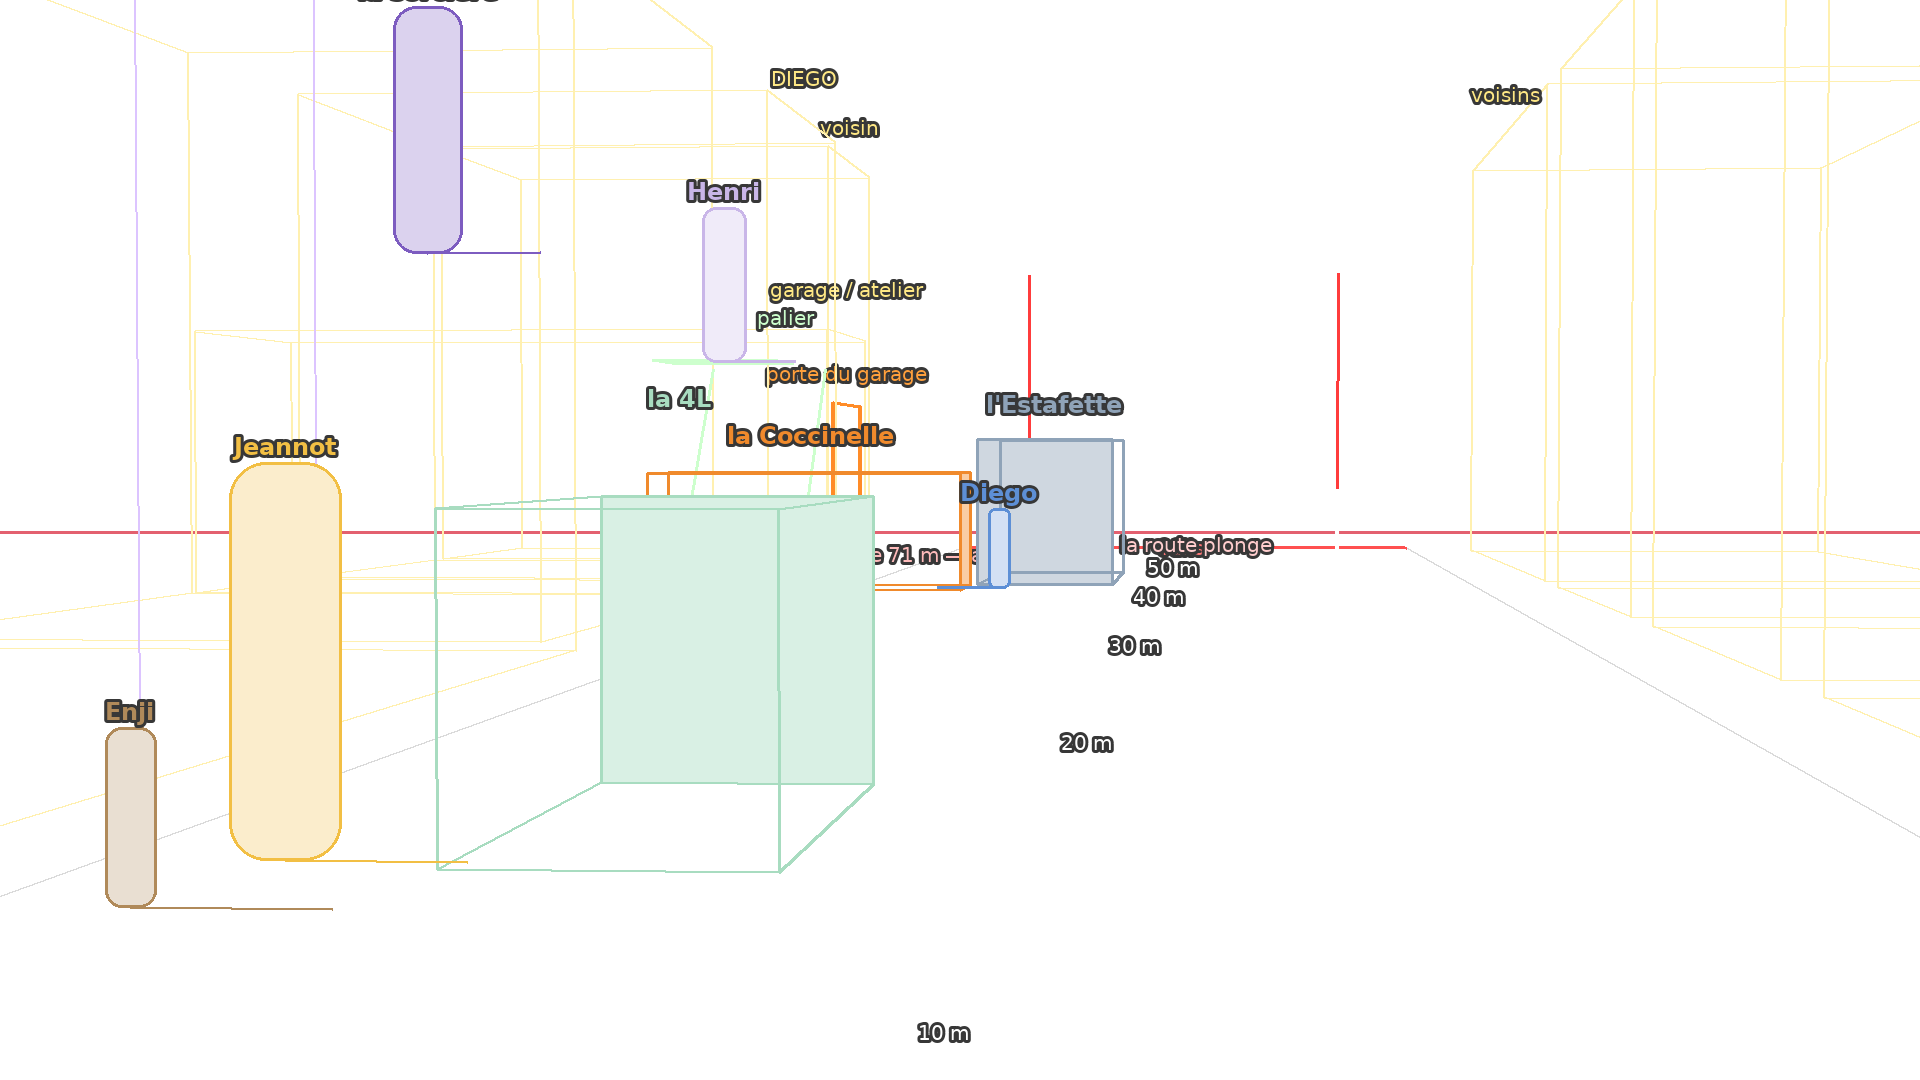
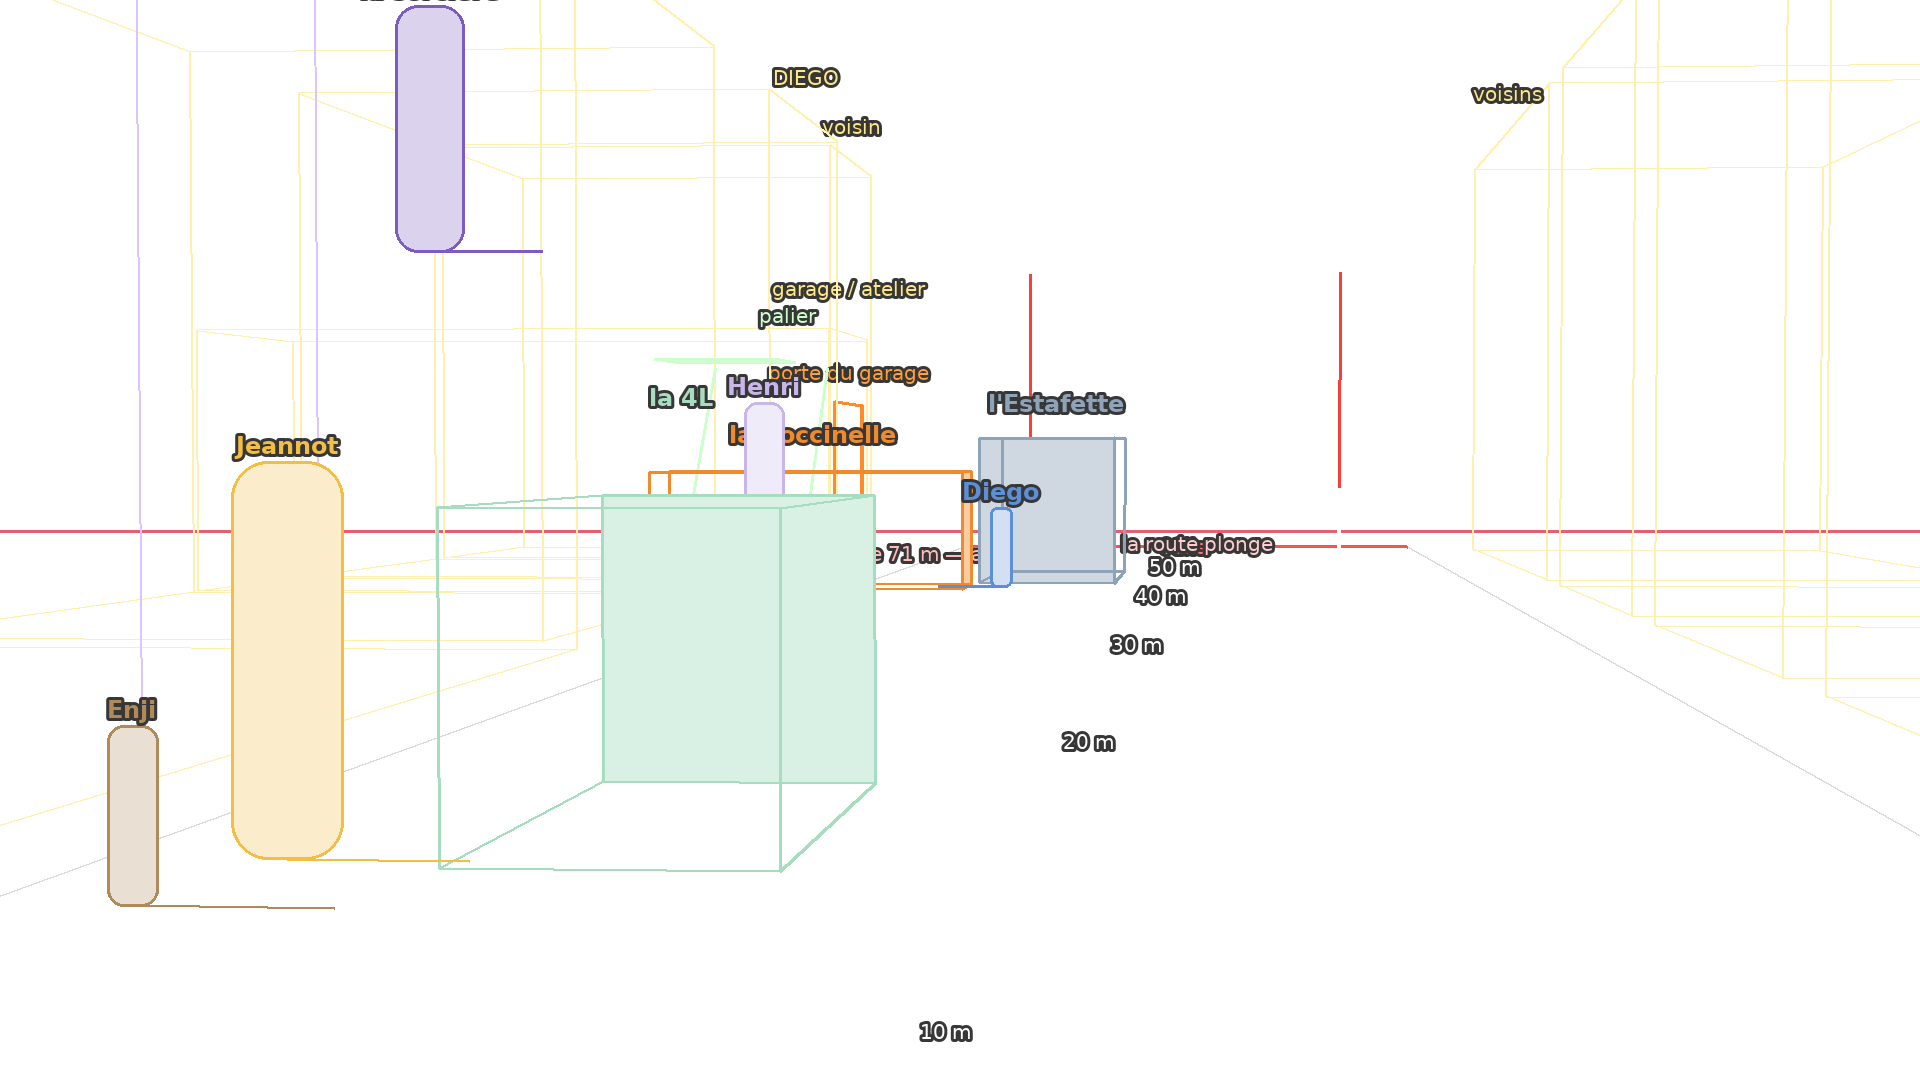
Carte interactive : placement P01 (rév. 12)

diff --git a/docs/storyboard-a-valider.md b/docs/storyboard-a-valider.md
@@ -82,7 +82,7 @@ et repositionner l'estafette devant la maison. Il faut qu'on puisse avoir une vu
 
 > Plan général maître de la rue, avec avant-plan dégagé. Une 4L vert menthe unique, à échelle réaliste, reste sur l'asphalte au bord du trottoir gauche devant chez Jeannot ; l'Estafette bleu-gris est plus loin sur le même côté.
 
-🗺 Carte du plan (rév. 11, 2026-10-13 10:12) :
+🗺 Carte du plan (rév. 12, 2026-10-13 14:54) :
 
 <img src="../assets/storyboards/a-valider/carte/plans/p01.png" width="420" alt="carte P01">
 
@@ -93,7 +93,7 @@ La v17 avec seulement tes corrections : l'Estafette est refaite en vraie Renault
 
 - 💬 *2026-10-13 13:12* — un problème avec la sorcière  elle est flou et pas défini et la couleur de la façade de la tourelle fait plus proppre que le reste de la maison
 
-**P01 · v19** — 🔁 à retoucher — tools/p01_v19.py (retouches locales sur v18) · contrôle : tools/controle_retouche.py → p01-v19-controle.jpg · 🟢 conforme à la carte actuelle (rév. 11)  
+**P01 · v19** — 🔁 à retoucher — tools/p01_v19.py (retouches locales sur v18) · contrôle : tools/controle_retouche.py → p01-v19-controle.jpg · 🟠 faite d'après la carte rév. 11 — la carte a changé depuis  
 La v18 avec seulement tes corrections : la sorcière est de nouveau nette (traits du visage, cheveux, mains) ; la façade de la tourelle et sa corniche ont pris la teinte et la patine du crépi de la tour ronde (fini le crème trop propre) ; le logo Renault de l'Estafette est un losange chromé bien visible, comme celui de la 4L. Rien d'autre ne bouge. Carte : tourelle agrandie (rayon 48 → 56), reculée pour ne pas toucher le trottoir (lieux rév. 9). Contrôle automatique : 0 pixel modifié hors des zones, couleurs OK, raccords OK ; le critère « grain » signale 2 tuiles (×1,78) qui sont les mèches de cheveux et le cadre de la fenêtre, c'est-à-dire des traits nets demandés, pas du grain — vérifié à l'œil.
 
 <img src="../assets/storyboards/a-valider/p01/p01-v19-retouche-v18.png" width="640" alt="P01 v19">
